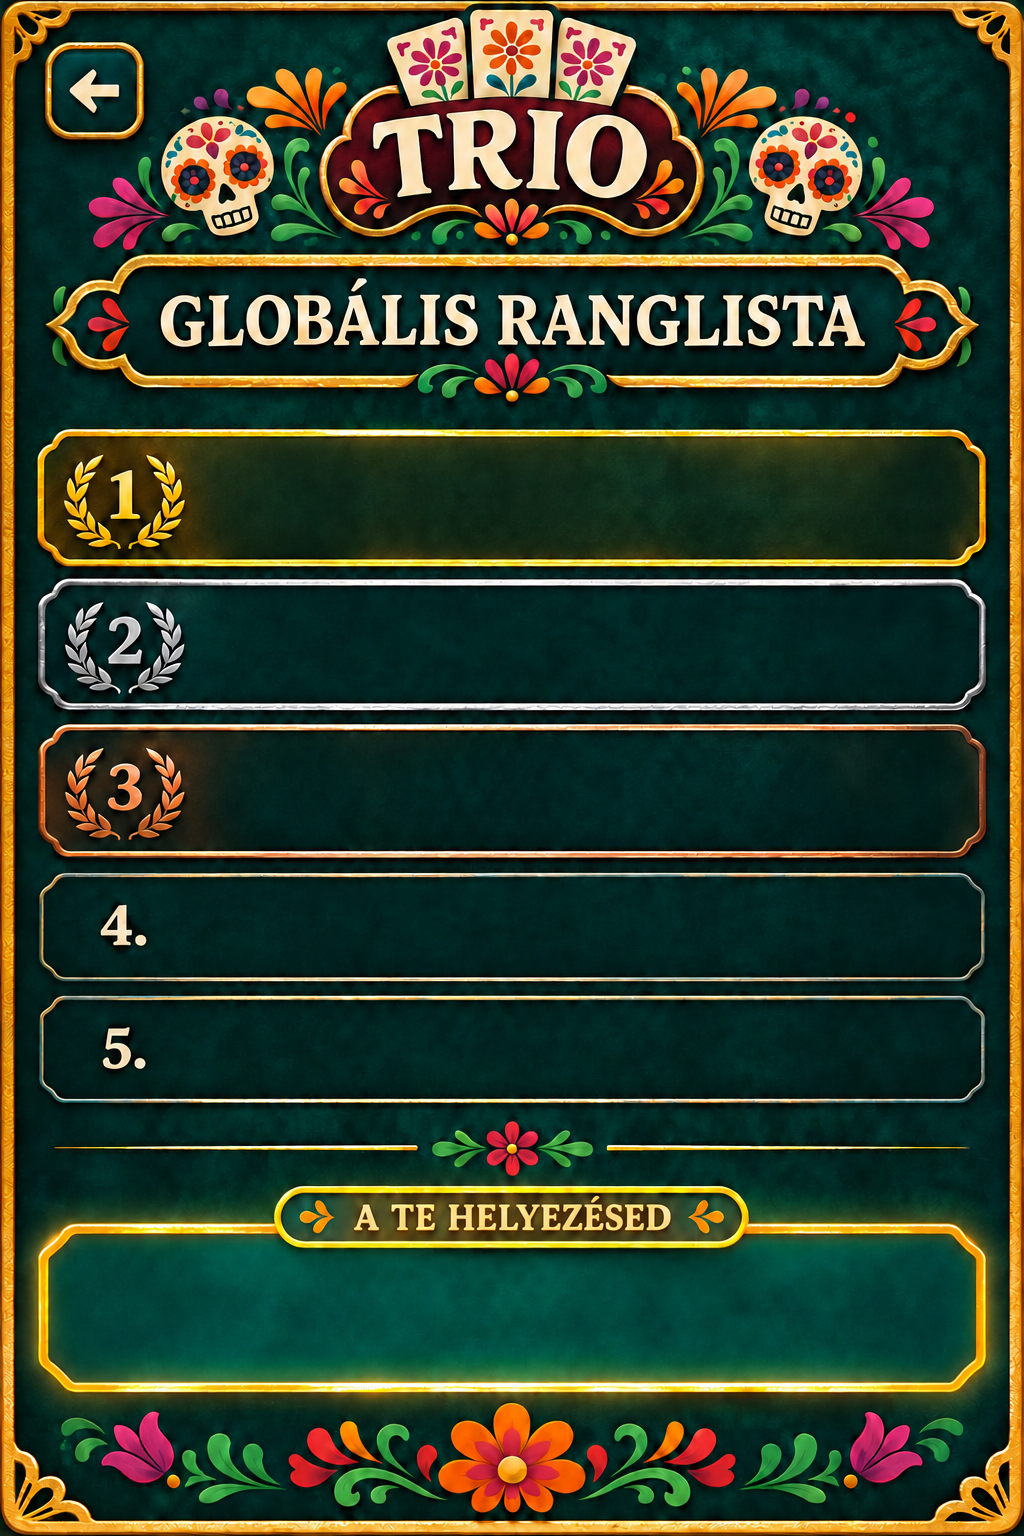
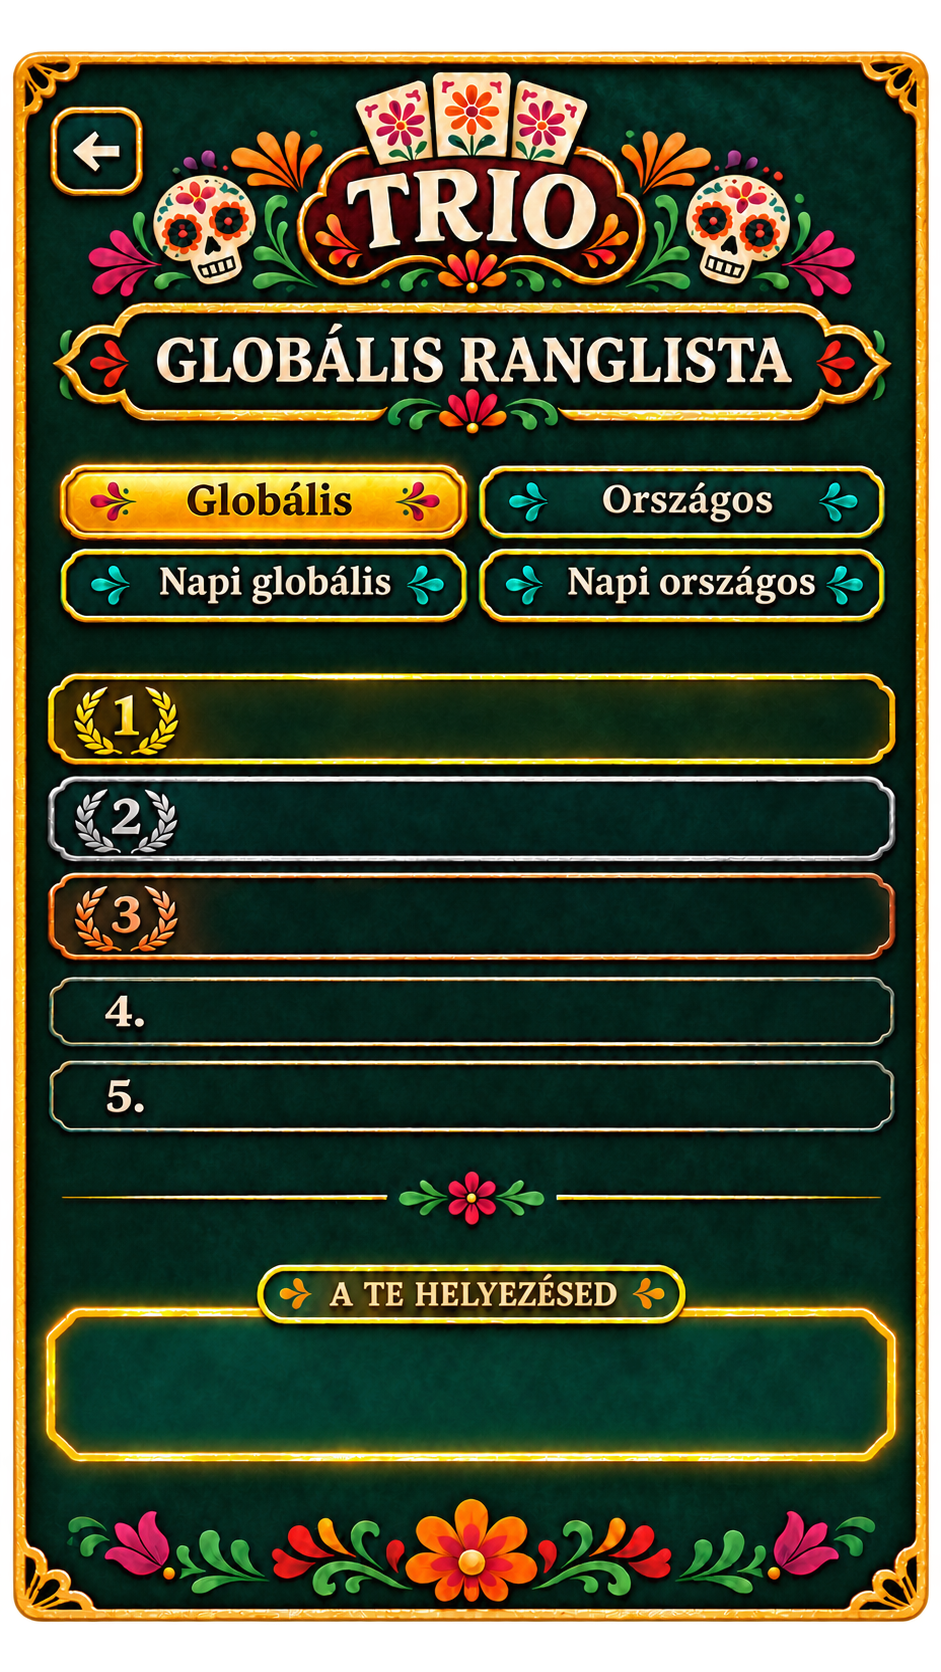
Add four leaderboard filters and modal presentation

diff --git a/mobile/lib/leaderboard_page.dart b/mobile/lib/leaderboard_page.dart
@@ -11,6 +11,9 @@ class LeaderboardPage extends StatefulWidget {
 
 class _LeaderboardPageState extends State<LeaderboardPage> {
   late Future<Map<String, dynamic>> data = widget.api.getLeaderboard();
+  int selected = 0;
+  Future<Map<String, dynamic>> load() => widget.api.getLeaderboard(country: selected.isOdd, daily: selected >= 2);
+  void select(int index) => setState(() { selected = index; data = load(); });
 
   @override
   void initState() {
@@ -25,7 +28,7 @@ class _LeaderboardPageState extends State<LeaderboardPage> {
 
   Future<void> updateProfile() async {
     await editPlayerProfile(context, widget.api);
-    if (mounted) setState(() => data = widget.api.getLeaderboard());
+    if (mounted) setState(() => data = load());
   }
 
   Widget entry(Map<String, dynamic> player, {bool mine = false}) => Row(children: [
@@ -41,28 +44,40 @@ class _LeaderboardPageState extends State<LeaderboardPage> {
 
   @override
   Widget build(BuildContext context) => Scaffold(
-    backgroundColor: const Color(0xff003d39),
-    body: Center(child: AspectRatio(aspectRatio: 1024 / 1536, child: LayoutBuilder(builder: (context, box) => Stack(children: [
+    backgroundColor: Colors.transparent,
+    body: Center(child: AspectRatio(aspectRatio: 941 / 1672, child: LayoutBuilder(builder: (context, box) => Stack(children: [
       Positioned.fill(child: Image.asset('assets/design/leaderboard_panel.png', fit: BoxFit.fill)),
       Positioned(right: 12, top: 12, child: IconButton(tooltip: 'Profil szerkesztése', onPressed: updateProfile, icon: const Icon(Icons.person, color: Colors.amber))),
-      Positioned(left: box.maxWidth * .04, top: box.maxHeight * .025, width: box.maxWidth * .11, height: box.maxHeight * .07,
+      Positioned(left: box.maxWidth * .05, top: box.maxHeight * .065, width: box.maxWidth * .11, height: box.maxHeight * .055,
         child: Semantics(button: true, label: 'Vissza', child: InkWell(onTap: () => Navigator.pop(context)))),
+      Positioned(left: box.maxWidth * .17, right: box.maxWidth * .17, top: box.maxHeight * .195, height: box.maxHeight * .04,
+        child: DecoratedBox(decoration: BoxDecoration(color: const Color(0xff003d39), borderRadius: BorderRadius.circular(12)), child: Center(child: FittedBox(child: Text(const ['GLOBÁLIS RANGLISTA', 'ORSZÁGOS RANGLISTA', 'NAPI GLOBÁLIS', 'NAPI ORSZÁGOS'][selected], style: const TextStyle(color: Color(0xfffff0c7), fontFamily: 'serif', fontSize: 25, fontWeight: FontWeight.w900)))))),
+      for (int i = 0; i < 4; i++) Positioned(
+        left: box.maxWidth * (i.isEven ? .065 : .51),
+        top: box.maxHeight * (i < 2 ? .28 : .331),
+        width: box.maxWidth * .43, height: box.maxHeight * .043,
+        child: Semantics(button: true, selected: selected == i, label: const ['Globális', 'Országos', 'Napi globális', 'Napi országos'][i],
+          child: InkWell(onTap: () => select(i), child: DecoratedBox(decoration: BoxDecoration(
+            color: selected == i ? const Color(0xffffcc38) : const Color(0xff003d39), borderRadius: BorderRadius.circular(12),
+            border: Border.all(color: const Color(0xffffcf40), width: selected == i ? 2 : 1)),
+            child: Center(child: FittedBox(child: Text(const ['Globális', 'Országos', 'Napi globális', 'Napi országos'][i], style: TextStyle(color: selected == i ? const Color(0xff002f2c) : const Color(0xfffff0c7), fontFamily: 'serif', fontSize: 19, fontWeight: FontWeight.w900))))))),
+      ),
       FutureBuilder<Map<String, dynamic>>(future: data, builder: (context, snapshot) {
-        if (snapshot.hasError) return Positioned(left: 35, right: 35, top: box.maxHeight * .4, child: Column(children: [
-          const Text('Nem sikerült betölteni a ranglistát.', style: TextStyle(color: Colors.white)),
-          TextButton(onPressed: () => setState(() => data = widget.api.getLeaderboard()), child: const Text('Újrapróbálás')),
+        if (snapshot.hasError) return Positioned(left: 35, right: 35, top: box.maxHeight * .43, child: Column(children: [
+          Text(snapshot.error is TrioApiException ? (snapshot.error as TrioApiException).message : 'Nem sikerült betölteni a ranglistát.', style: const TextStyle(color: Colors.white)),
+          TextButton(onPressed: () => setState(() => data = load()), child: const Text('Újrapróbálás')),
         ]));
-        if (!snapshot.hasData) return const Center(child: CircularProgressIndicator(color: Colors.amber));
+        if (snapshot.connectionState != ConnectionState.done || !snapshot.hasData) return const Center(child: CircularProgressIndicator(color: Colors.amber));
         final top = (snapshot.data!['top'] as List).cast<Map<String, dynamic>>();
         final me = snapshot.data!['me'] as Map<String, dynamic>?;
         return Stack(children: [
           for (int i = 0; i < 5; i++) Positioned(
             left: box.maxWidth * .20, right: box.maxWidth * .065,
-            top: box.maxHeight * const [.287, .382, .477, .574, .654][i],
-            height: box.maxHeight * (i < 3 ? .073 : .06),
+            top: box.maxHeight * const [.407, .468, .526, .586, .636][i],
+            height: box.maxHeight * .043,
             child: i < top.length ? entry(top[i]) : const Center(child: Text('Még nincs játékos', style: TextStyle(color: Colors.white54))),
           ),
-          Positioned(left: box.maxWidth * .07, right: box.maxWidth * .065, top: box.maxHeight * .818, height: box.maxHeight * .075,
+          Positioned(left: box.maxWidth * .07, right: box.maxWidth * .065, top: box.maxHeight * .797, height: box.maxHeight * .065,
             child: me != null ? entry(me, mine: true) : const Center(child: Text('Még nincs helyezésed', style: TextStyle(color: Colors.white)))),
         ]);
       }),

diff --git a/mobile/lib/main.dart b/mobile/lib/main.dart
@@ -1169,7 +1169,14 @@ class _TrioGameState extends State<TrioGame> with TickerProviderStateMixin {
   Future<void> showLeaderboard() async {
     if (!api.isAuthenticated && !await showGoogleLogin()) return;
     if (!mounted) return;
-    await Navigator.of(context).push(MaterialPageRoute<void>(builder: (_) => LeaderboardPage(api: api)));
+    await showDialog<void>(
+      context: context,
+      builder: (_) => Dialog(
+        backgroundColor: Colors.transparent,
+        insetPadding: const EdgeInsets.symmetric(horizontal: 14, vertical: 24),
+        child: LeaderboardPage(api: api),
+      ),
+    );
   }
 
   Widget gameOptionsPanel() => LayoutBuilder(

diff --git a/mobile/lib/trio_api.dart b/mobile/lib/trio_api.dart
@@ -305,8 +305,8 @@ class TrioApi {
     if (response.statusCode != 204) _decode(response);
   }
 
-  Future<Map<String, dynamic>> getLeaderboard() async {
-    final response = await _client.get(Uri.parse('$baseUrl/leaderboard'), headers: _headers)
+  Future<Map<String, dynamic>> getLeaderboard({bool country = false, bool daily = false}) async {
+    final response = await _client.get(Uri.parse('$baseUrl/leaderboard').replace(queryParameters: {'scope': country ? 'country' : 'global', 'period': daily ? 'daily' : 'all'}), headers: _headers)
         .timeout(const Duration(seconds: 15));
     return _decode(response);
   }

diff --git a/app/Http/Controllers/Api/V1/LeaderboardController.php b/app/Http/Controllers/Api/V1/LeaderboardController.php
@@ -11,23 +11,42 @@ class LeaderboardController extends Controller
 {
     public function __invoke(Request $request): JsonResponse
     {
-        $query = User::query()->where('is_guest', false);
+        $filters = $request->validate(['scope' => ['sometimes', 'in:global,country'], 'period' => ['sometimes', 'in:all,daily']]);
+        $country = ($filters['scope'] ?? 'global') === 'country';
+        $daily = ($filters['period'] ?? 'all') === 'daily';
+        $me = $request->user();
+        if ($country && ! $me->country_code) {
+            return response()->json(['message' => 'Előbb add meg az országodat a profilodban.'], 422);
+        }
+        $base = User::query()->where('is_guest', false)->select('users.*');
+        if ($country) $base->where('country_code', $me->country_code);
+        if ($daily) {
+            $start = \Carbon\CarbonImmutable::now('Europe/Budapest')->startOfDay()->utc();
+            $end = $start->setTimezone('Europe/Budapest')->addDay()->utc();
+            $base->selectSub(\App\Models\PointTransaction::query()
+                ->selectRaw('COALESCE(SUM(amount), 0)')->whereColumn('user_id', 'users.id')
+                ->where('created_at', '>=', $start)->where('created_at', '<', $end), 'score');
+        } else {
+            $base->selectRaw('points as score');
+        }
+        $query = User::query()->fromSub($base, 'ranked')->select('ranked.*');
+        if ($daily) $query->where('score', '>', 0);
         $entry = fn (User $user, int $rank): array => [
             'rank' => $rank, 'name' => $user->full_name ?? $user->name,
             'country_code' => $user->country_code,
-            'avatar_id' => $user->avatar_id ?: 1, 'points' => (int) $user->points,
+            'avatar_id' => $user->avatar_id ?: (($user->id - 1) % 40) + 1, 'points' => (int) $user->score,
         ];
-        $top = (clone $query)->orderByDesc('points')->orderBy('id')->limit(5)->get()
+        $top = (clone $query)->orderByDesc('score')->orderBy('id')->limit(5)->get()
             ->map(fn (User $user, int $index) => $entry($user, $index + 1));
-        $me = $request->user();
+        $myRow = (clone $query)->where('id', $me->id)->first();
         $mine = null;
-        if ($me && ! $me->is_guest) {
-            $rank = (clone $query)->where(function ($q) use ($me) {
-                $q->where('points', '>', $me->points)->orWhere(function ($q) use ($me) {
-                    $q->where('points', $me->points)->where('id', '<', $me->id);
+        if ($myRow) {
+            $rank = (clone $query)->where(function ($q) use ($myRow) {
+                $q->where('score', '>', $myRow->score)->orWhere(function ($q) use ($myRow) {
+                    $q->where('score', $myRow->score)->where('id', '<', $myRow->id);
                 });
             })->count() + 1;
-            $mine = $entry($me, $rank);
+            $mine = $entry($myRow, $rank);
         }
         return response()->json(['top' => $top, 'me' => $mine]);
     }

diff --git a/tests/Feature/LeaderboardTest.php b/tests/Feature/LeaderboardTest.php
@@ -26,4 +26,24 @@ class LeaderboardTest extends TestCase
     {
         $this->getJson('/api/v1/leaderboard')->assertUnauthorized();
     }
+
+    public function test_daily_country_filters_use_todays_transactions(): void
+    {
+        $this->travelTo(\Carbon\Carbon::parse('2026-11-20 12:00:00', 'Europe/Budapest'));
+        $me = User::factory()->create(['is_guest' => false, 'points' => 500]);
+        $me->country_code = 'HU';
+        $me->save();
+        $other = User::factory()->create(['is_guest' => false, 'points' => 900]);
+        $other->country_code = 'AT';
+        $other->save();
+        foreach ([[$me, 20, now()], [$me, 100, now()->subDay()], [$other, 80, now()]] as [$user, $amount, $at]) {
+            \App\Models\PointTransaction::create(['user_id' => $user->id, 'type' => 'test', 'amount' => $amount, 'balance_after' => $amount, 'created_at' => $at]);
+        }
+        Sanctum::actingAs($me);
+        $this->getJson('/api/v1/leaderboard?scope=country&period=daily')->assertOk()
+            ->assertJsonCount(1, 'top')->assertJsonPath('me.points', 20)->assertJsonPath('me.rank', 1);
+        $this->getJson('/api/v1/leaderboard?period=daily')->assertOk()
+            ->assertJsonPath('top.0.points', 80)->assertJsonPath('me.rank', 2);
+        $this->travelBack();
+    }
 }
